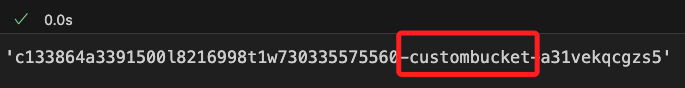
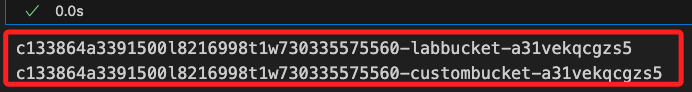
Commit on 2024-11-02 19:45:57

diff --git a/01_課程筆記/00_Lab/94020/Lab 6.1_Implementing Topic Modeling with Amazon Comprehend/01_官方範例/01_官方範例說明.md b/01_課程筆記/00_Lab/94020/Lab 6.1_Implementing Topic Modeling with Amazon Comprehend/01_官方範例/01_官方範例說明.md
@@ -196,7 +196,8 @@ _建立 Lab 所需權限的變數_
     ```python
     # 將 bucket 名稱中的 "labbucket" 替換為 "custombucket"
     bucket_custom = bucket.replace("labbucket", "custombucket")
-    bucket_custom
+    print(bucket)
+    print(bucket_custom)
     ```
 
     ![](images/img_11.png)
